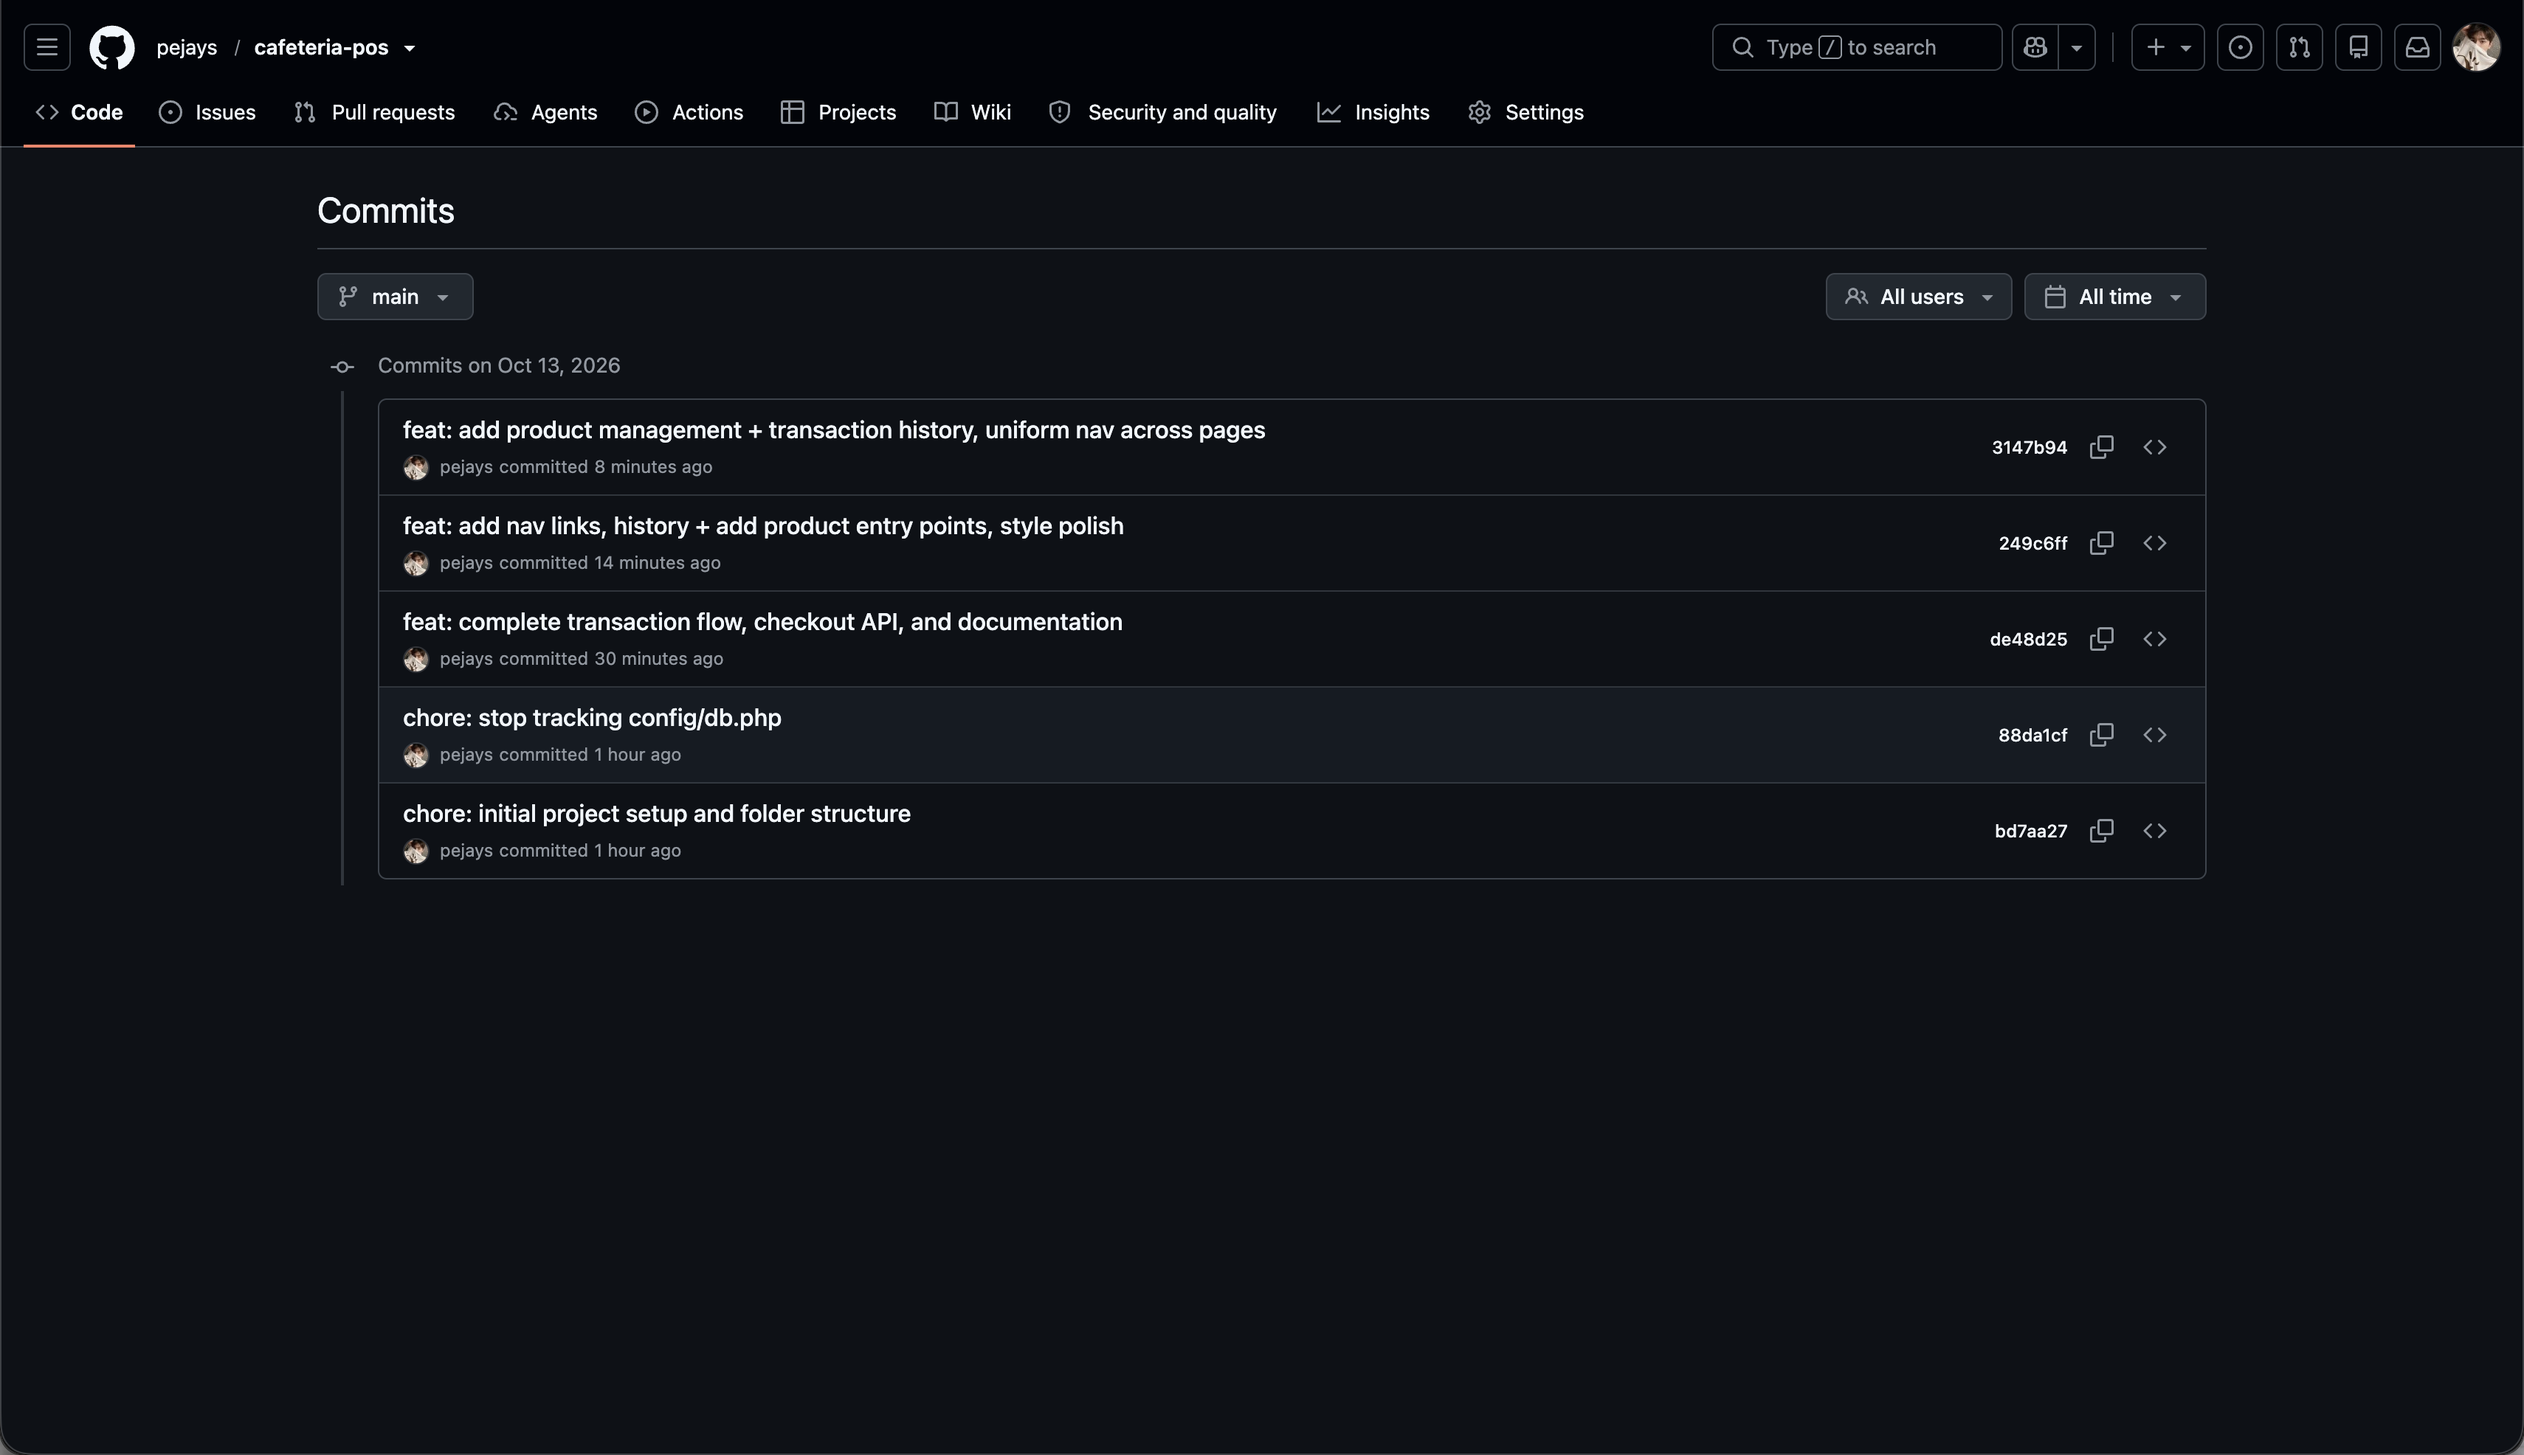
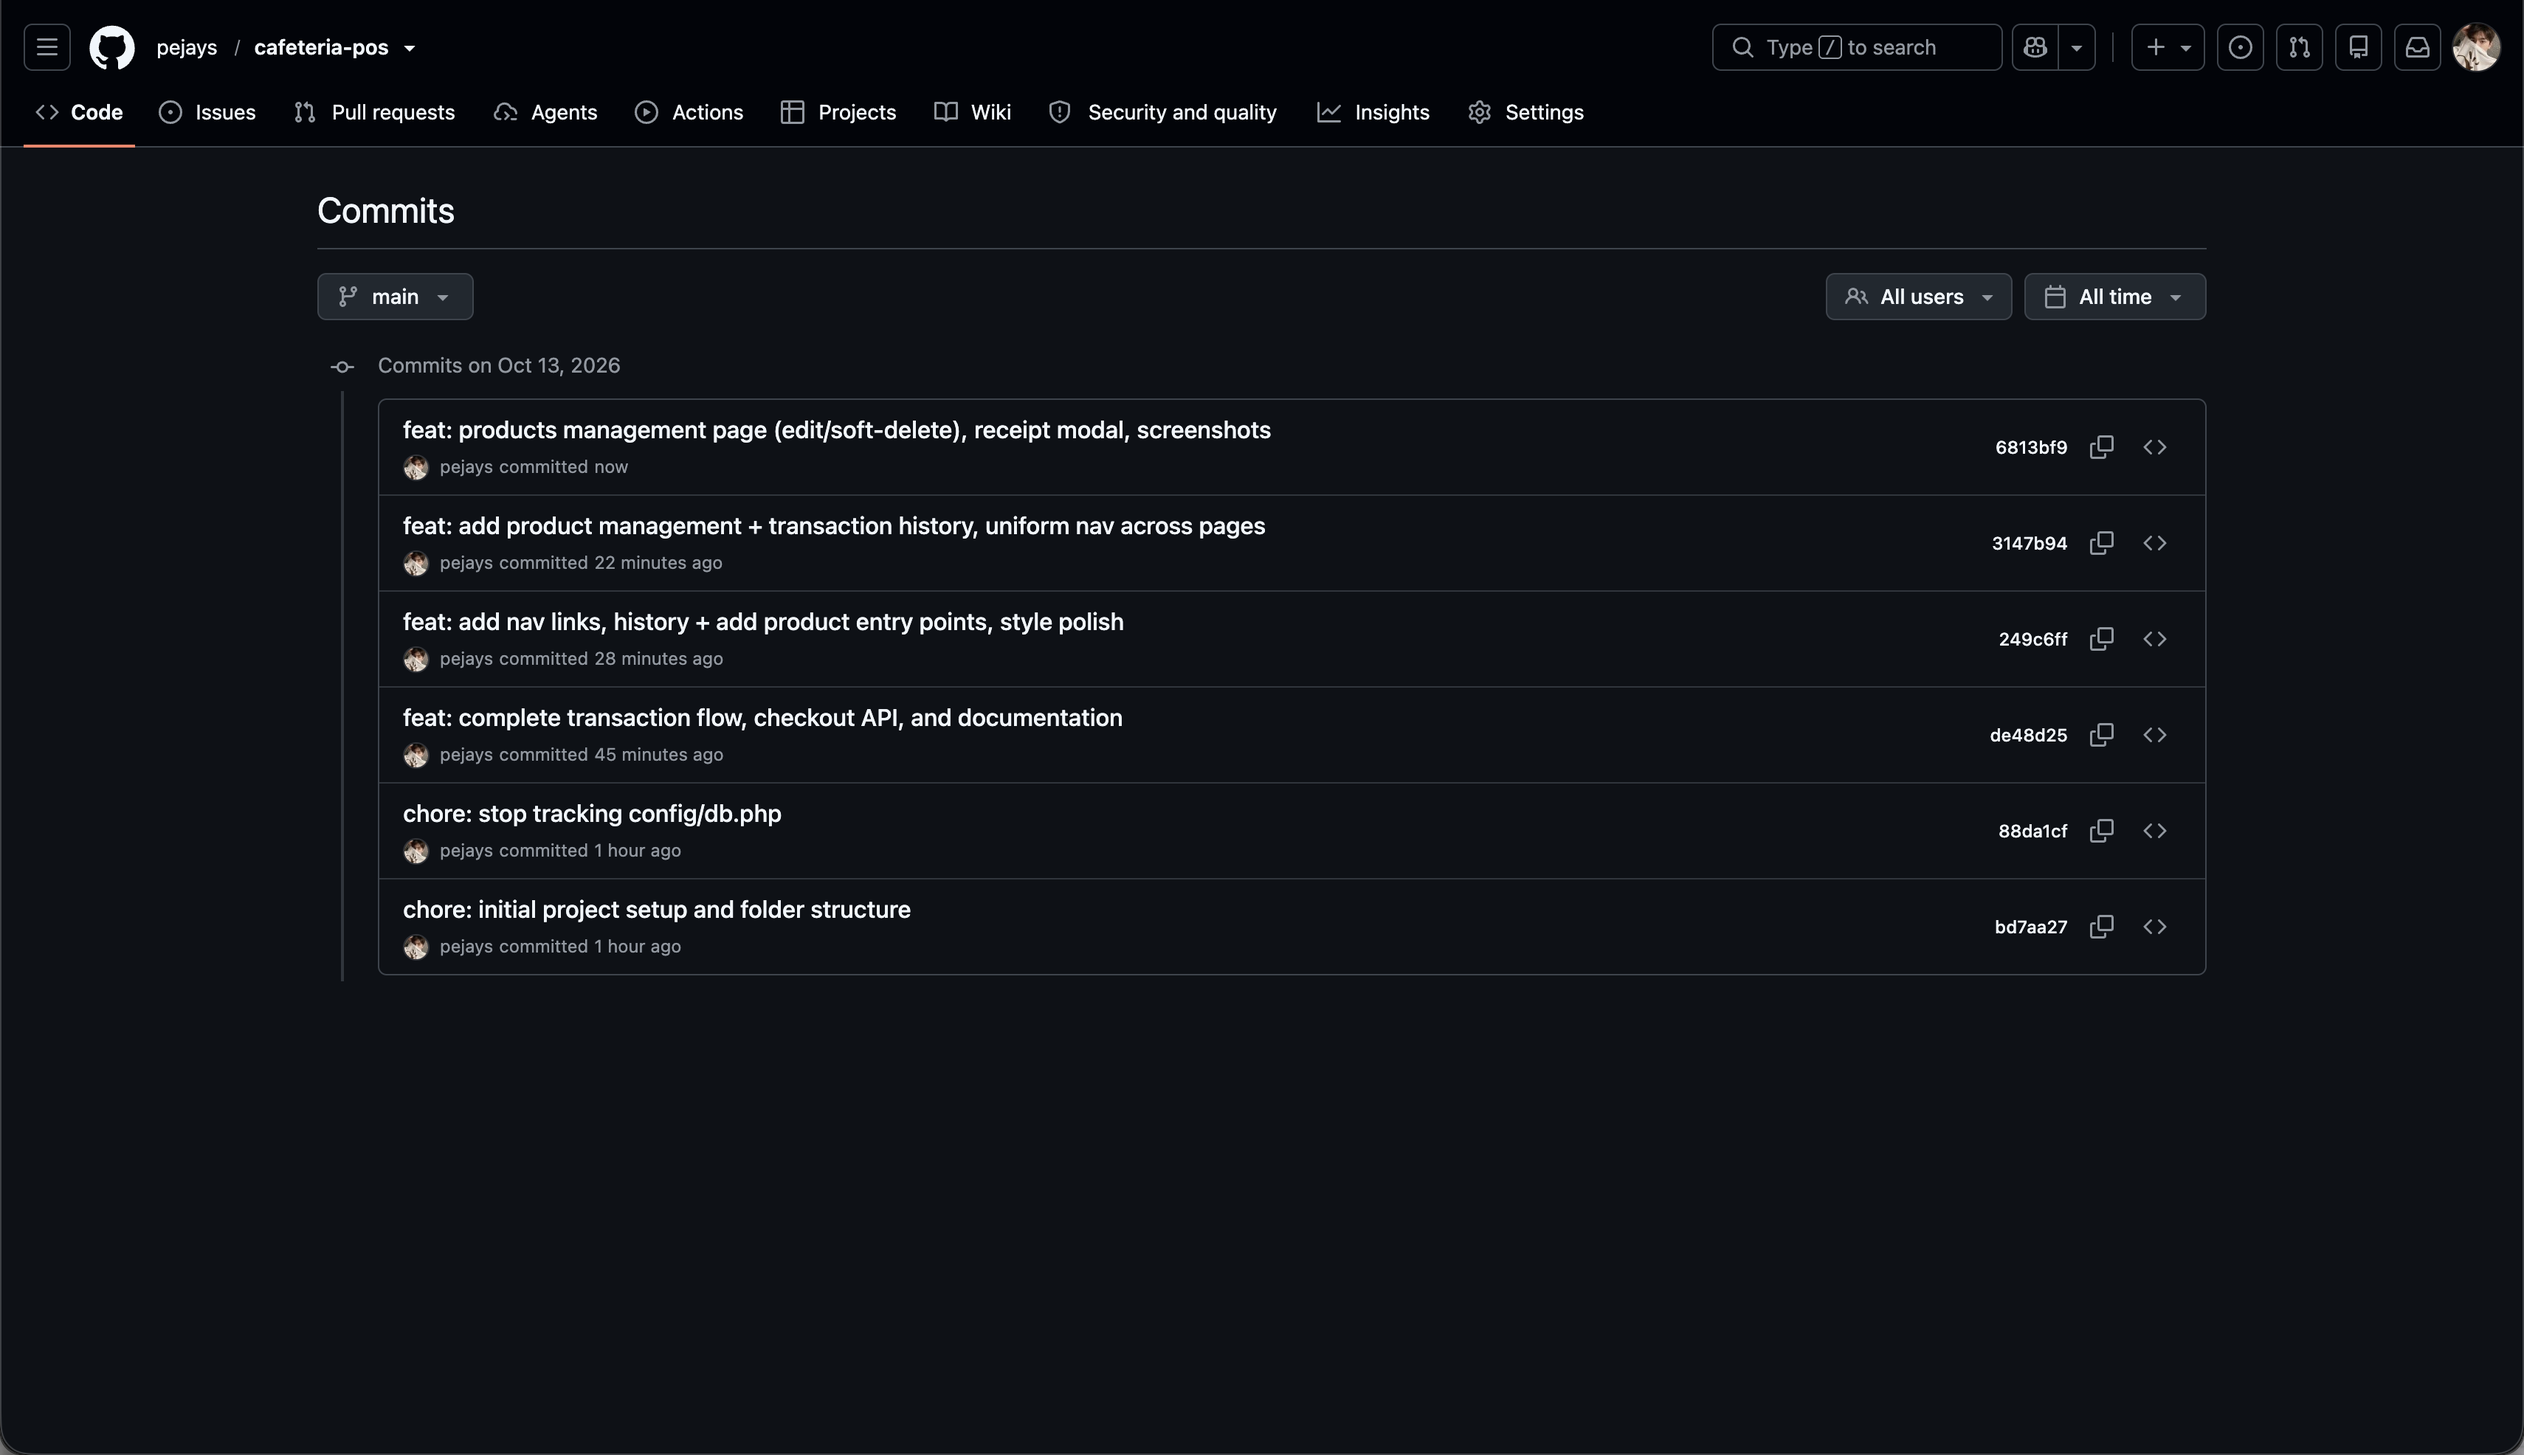
docs: update README, CHANGELOG, and config template

diff --git a/config/db.example.php b/config/db.example.php
@@ -1,7 +1,8 @@
 <?php
 // ============================================================
-// Database connection (PDO)
-// IT 415 — Cafeteria POS
+// Database connection TEMPLATE
+// Copy this file to config/db.php and edit credentials.
+// NEVER commit config/db.php to Git.
 // ============================================================
 
 $DB_HOST = '127.0.0.1';

diff --git a/README.md b/README.md
@@ -30,14 +30,17 @@ http://localhost/cafeteria-pos/
 - Numeric cash payment input
 - Payment validation: blank, non-numeric, negative, insufficient
 - Correct change computation (`Change = Amount Paid − Total`)
-- Payment confirmation screen
+- Payment confirmation screen (modal)
 - Digital receipt with items, quantities, subtotals, total, amount paid, change, transaction reference
 - "Start New Transaction" — clears cart, payment, receipt
 
 ### Extra (not required, but included)
 
 - Double validation (client + server)
-- Persistent transaction history in MySQL
+- Persistent transaction history in MySQL (`history.php`)
+- Product management page (`products.php`) — edit + soft delete
+- Add product page (`add_product.php`)
+- Receipt shown in an Apple-style modal overlay
 - Apple-inspired clean UI
 
 ---
@@ -59,7 +62,10 @@ No frameworks. No build tools. No dependencies.
 
 ```
 cafeteria-pos/
-├── index.php                  ← Main UI
+├── index.php                  ← Main POS UI
+├── history.php                ← Transaction history
+├── products.php               ← Manage products (edit / soft-delete)
+├── add_product.php            ← Add a new product
 ├── api/
 │   ├── products.php           ← GET — menu as JSON
 │   └── checkout.php           ← POST — processes payment, saves txn
@@ -71,7 +77,9 @@ cafeteria-pos/
 │   └── db.example.php         ← Template for other machines
 ├── docs/
 │   ├── cafeteria_pos.sql      ← DB schema + seed data
-│   └── ai-usage.md            ← AI-assisted dev log (exam req.)
+│   ├── ai-usage.md            ← AI-assisted dev log (exam req.)
+│   ├── CHANGELOG.md           ← Version history
+│   └── screenshots/           ← Submission screenshots
 ├── agent.md                   ← AI restriction contract
 ├── knowledge.md               ← Project knowledge base
 └── README.md                  ← This file
@@ -122,8 +130,14 @@ Open `http://localhost/cafeteria-pos/` in your browser.
 4. **Review** — total updates live at the bottom of the cart
 5. **Enter cash** — type the amount paid
 6. **Confirm payment** — validation runs; errors show if invalid
-7. **View receipt** — reference no., items, total, paid, change
+7. **View receipt** — modal opens with reference no., items, total, paid, change
 8. **New transaction** — resets everything for the next customer
+
+### Additional pages
+
+- **Products** (`products.php`) — edit name/price inline, soft-delete (hide) items
+- **History** (`history.php`) — all past sales, newest first
+- **Add Product** (`add_product.php`) — add a new menu item
 
 ### Worked Example
 
@@ -207,7 +221,7 @@ Policy highlights (see `agent.md`):
 - No login / authentication (not required by exam)
 - Single terminal / cashier (no concurrency handling)
 - On-screen receipt only (no physical printer)
-- Menu is seeded via SQL (no in-app product editor)
+- Soft-deleted products remain in the DB (intentional — preserves past transactions)
 
 ---
 

diff --git a/docs/CHANGELOG.md b/docs/CHANGELOG.md
@@ -16,6 +16,31 @@ See `agent.md` for the modification protocol.
 
 ---
 
+## [1.2.0] — 2026-10-14
+
+### Added
+- `products.php` — product management page with inline edit + soft delete
+- `docs/screenshots/` — 8 submission screenshots
+  (product list, cart, payment error, receipt modal, GitHub history,
+  transaction history, add product, products management)
+
+### Changed
+- `assets/js/app.js` — receipt now displays in a modal overlay instead of
+  an inline panel; body scroll locks while modal is open
+- `assets/css/style.css` — added modal styles, products-table styles,
+  inline-edit inputs, badges, action buttons
+- `index.php`, `history.php`, `add_product.php` — nav updated to include
+  a **Products** link (uniform across all pages)
+- `docs/CHANGELOG.md` — this file
+- `README.md` — documented new pages and features
+
+### MUTATE notes
+Restricted files modified in this release (per `agent.md`):
+- `assets/js/app.js` — approved by jhonpatrickacedo (2026-10-14)
+  Reason: receipt UX change (inline panel → modal)
+
+---
+
 ## [1.1.0] — 2026-10-14
 
 ### Added
